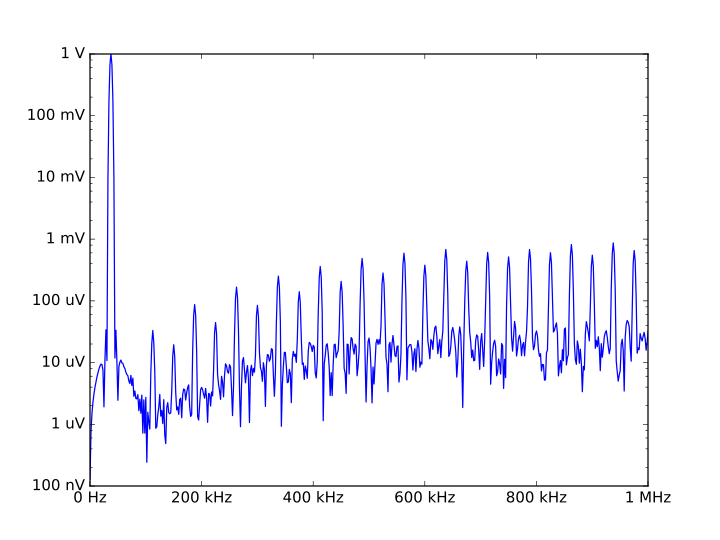
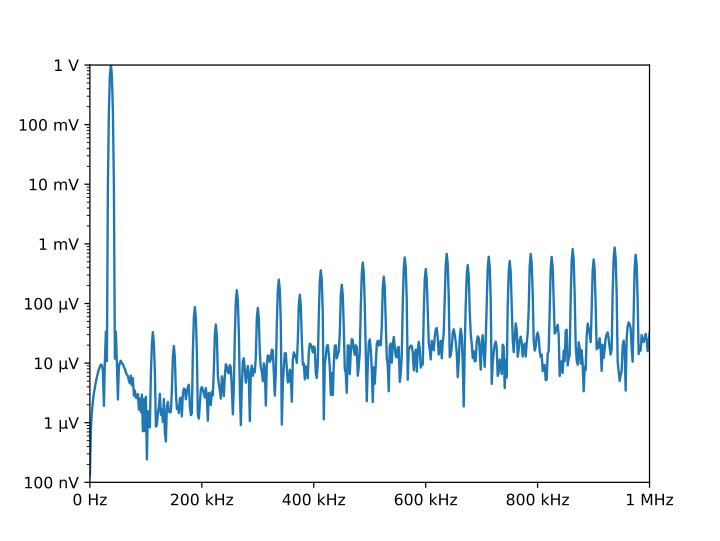
Convert u to mu in matplotlib example.

Changed region(s): [[0.0306, 0.0889, 0.9472, 0.9481]]

diff --git a/doc/examples.rst b/doc/examples.rst
@@ -186,7 +186,7 @@ included a width specification, but in the second the desired unit of measure
 was specified (*B*), which caused the underlying value to be converted from bits 
 to bytes.
 
-Also it is important to recognize that *QuantiPhy* is using decimal rather than 
+It is important to recognize that *QuantiPhy* is using decimal rather than 
 binary scale factors. So 5 GB is 5 gigabyte and not 5 gibibyte.  In otherwords 
 5 GB represents 5×10⁹ B and not 5×2³⁰ B.
 
@@ -403,6 +403,7 @@ produces an SVG version of the results using MatPlotLib.
     from matplotlib.ticker import FuncFormatter
     import matplotlib.pyplot as pl
     from quantiphy import Quantity
+    Quantity.set_prefs(map_sf=Quantity.map_sf_to_greek)
 
     # read the data from delta-sigma.smpl
     data = np.fromfile('delta-sigma.smpl', sep=' ')
@@ -448,7 +449,7 @@ This script produces the following textual output::
     Time step = 20 ns
     Nonperiodicity = 2.3 pV
     Time points = 28k
-    Period = 560 us
+    Period = 560 μs
     Frequency resolution = 1.79 kHz
 
 And the following is one of the two graphs produced:
